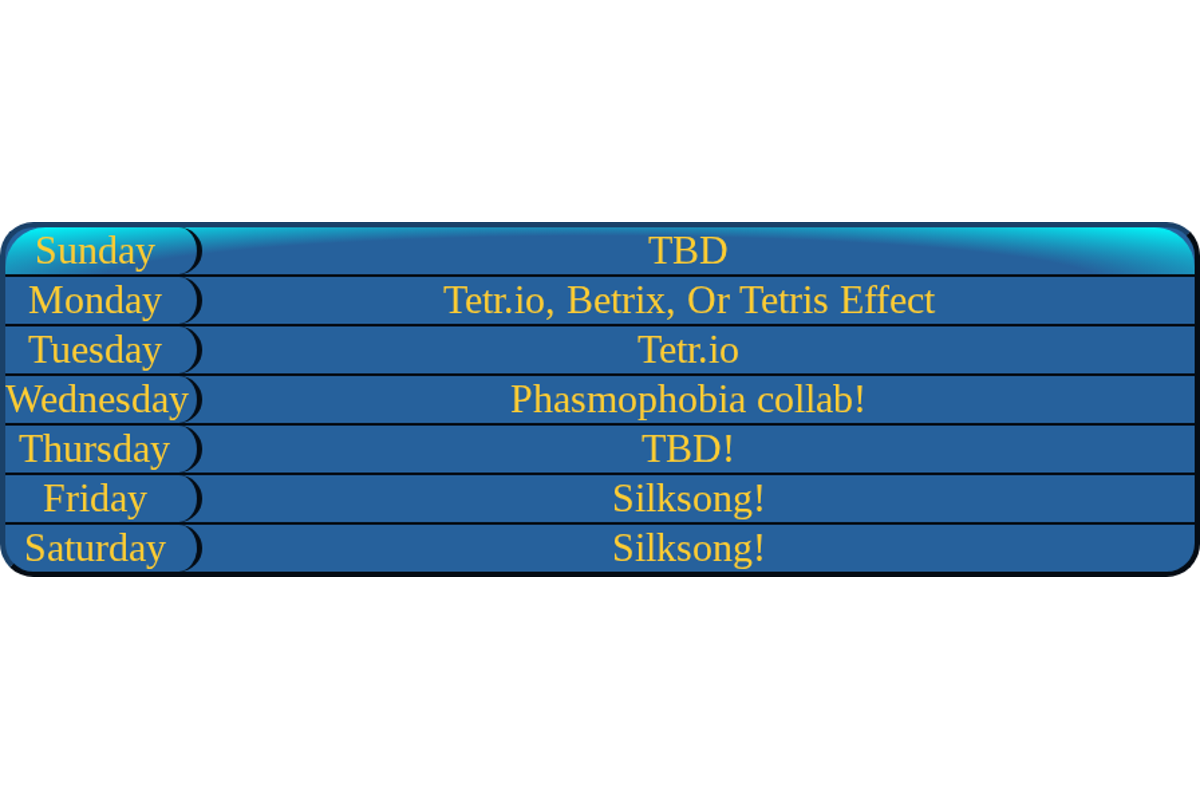
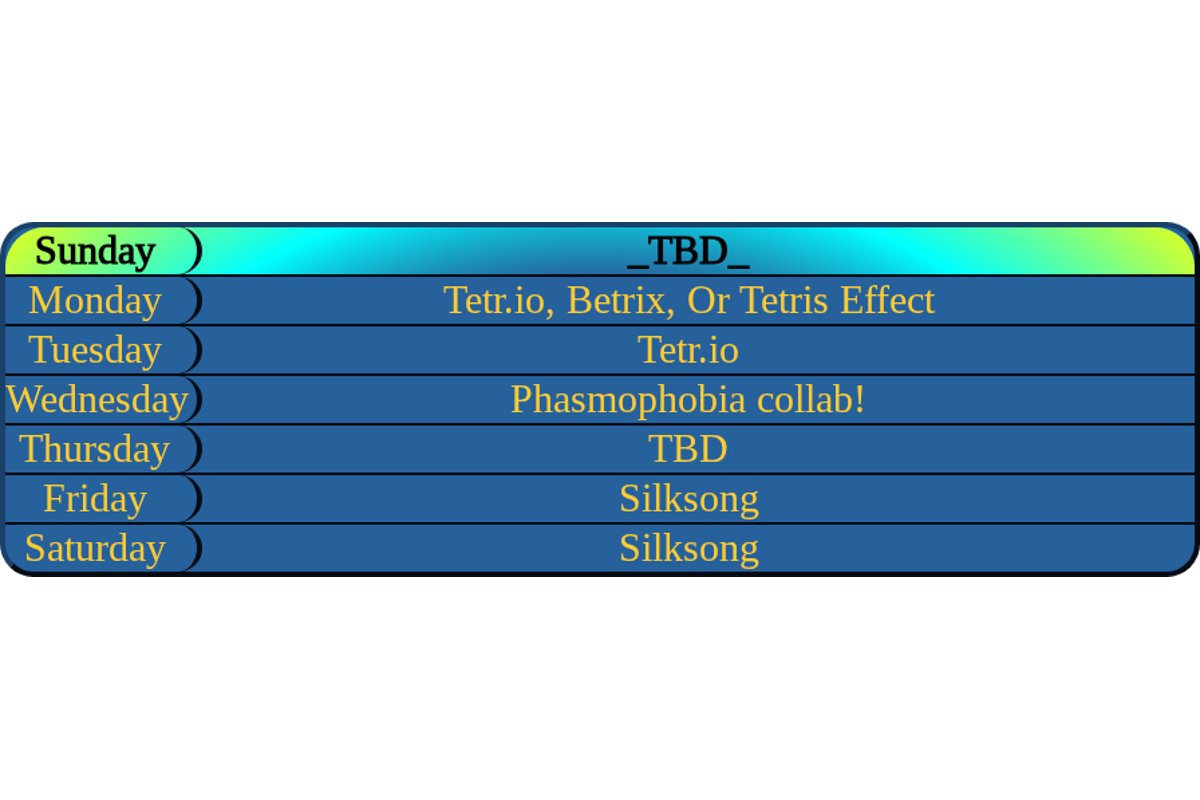
put underscore to test stuffs

Changed region(s): [[0.0, 0.2812, 1.0, 0.3438], [0.4933, 0.5312, 0.6475, 0.7188]]

diff --git a/Schedule.html b/Schedule.html
@@ -12,8 +12,8 @@
 		<meta content="Stream Schedule" property="og:title" />
 		<meta content="The schedule for my streams, which i try to stay on top of" property="og:description" />
 		<meta content="https://atlas-chainsteel.github.io/Schedule.html" property="og:url" />
-		<meta id="og-image" content="https://atlas-chainsteel.github.io/embedimage.png?v=280920250320" property="og:image" />
-		<meta id="twitEmbed" content="https://atlas-chainsteel.github.io/embedimage.png?v=280920250320" name="twitter:image" />
+		<meta id="og-image" content="https://atlas-chainsteel.github.io/embedimage.png?v=280920250409" property="og:image" />
+		<meta id="twitEmbed" content="https://atlas-chainsteel.github.io/embedimage.png?v=280920250409" name="twitter:image" />
 		<meta content="summary_large_image" name="twitter:card" />
 		<meta content="#26619c" data-react-helmet="true" name="theme-color" />
 	</head>
@@ -21,7 +21,7 @@
 		<div class="outline">
 			<div class="date">
 				<div class="day">Sunday:</div>
-				<div class="plans">TBD</div>
+				<div class="plans">_TBD_</div>
 			</div>
 			<div class="date">
 				<div class="day">Monday:</div>
@@ -37,15 +37,15 @@
 			</div>
 			<div class="date">
 				<div class="day">Thursday:</div>
-				<div class="plans">TBD!</div>
+				<div class="plans">TBD</div>
 			</div>
 			<div class="date">
 				<div class="day">Friday:</div>
-				<div class="plans">Silksong!</div>
+				<div class="plans">Silksong</div>
 			</div>
 			<div class="date">
 				<div class="day">Saturday:</div>
-				<div class="plans">Silksong!</div>
+				<div class="plans">Silksong</div>
 			</div>
 		</div>
 		<div class="chainContainer">
